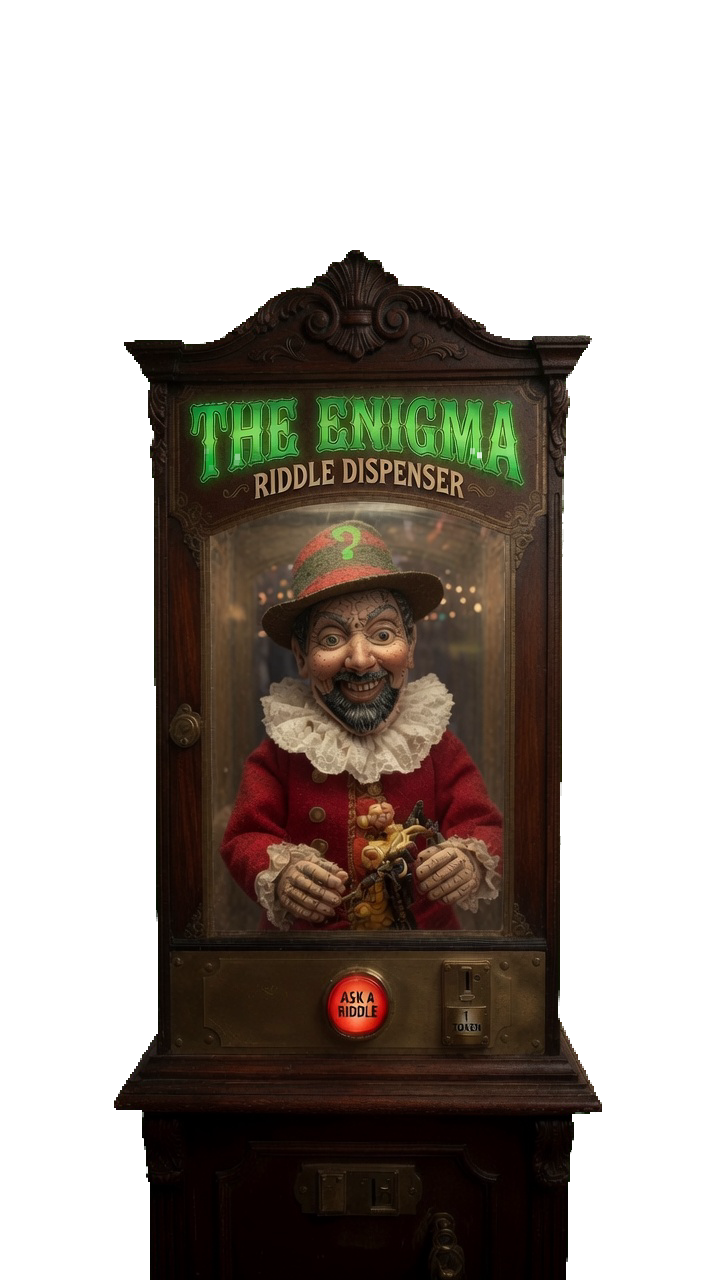
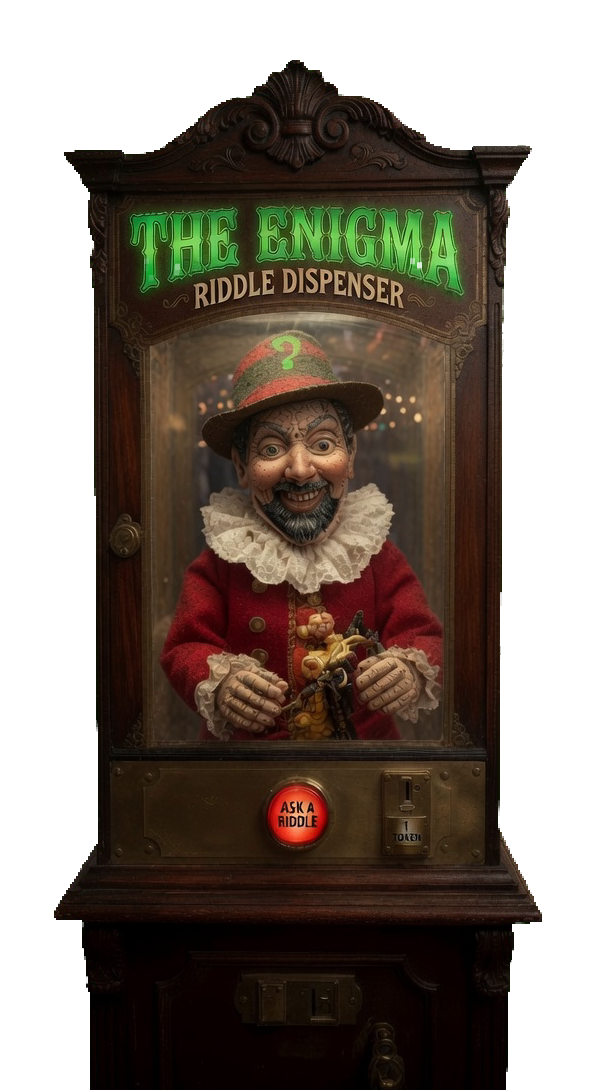
Revert container scaling, crop artwork to fill the frame instead
The last change grew the whole card (frame + dead space together), which also
made the page require more scrolling. Reverting the frame back to its fixed
340px and instead cropping poster.png tighter (removing most of the ~250px
of empty headroom above the crest and trimming side margins) makes the
cabinet itself fill the frame, matching the reference mockup, without
growing the page.

diff --git a/src/EnigmaPage.jsx b/src/EnigmaPage.jsx
@@ -393,7 +393,5 @@ input::placeholder { color: #8C7A58; }
 @media (prefers-reduced-motion: reduce){ .e-bulb,.e-glow,.e-pop,.e-flicker,.e-shake{ animation: none !important; } }
 .hAdLB { display: flex; align-items: center; gap: 14px; }
 @media (max-width: 480px) { .hAdLB { flex-direction: column; align-items: flex-start; gap: 8px; min-height: auto; } }
-.mWrapOuter { max-width: min(94vw, 420px); }
-@media (min-width: 640px) { .mWrapOuter { max-width: 520px; } }
-@media (min-width: 1000px) { .mWrapOuter { max-width: 600px; } }
+.mWrapOuter { max-width: 340px; }
 `;
